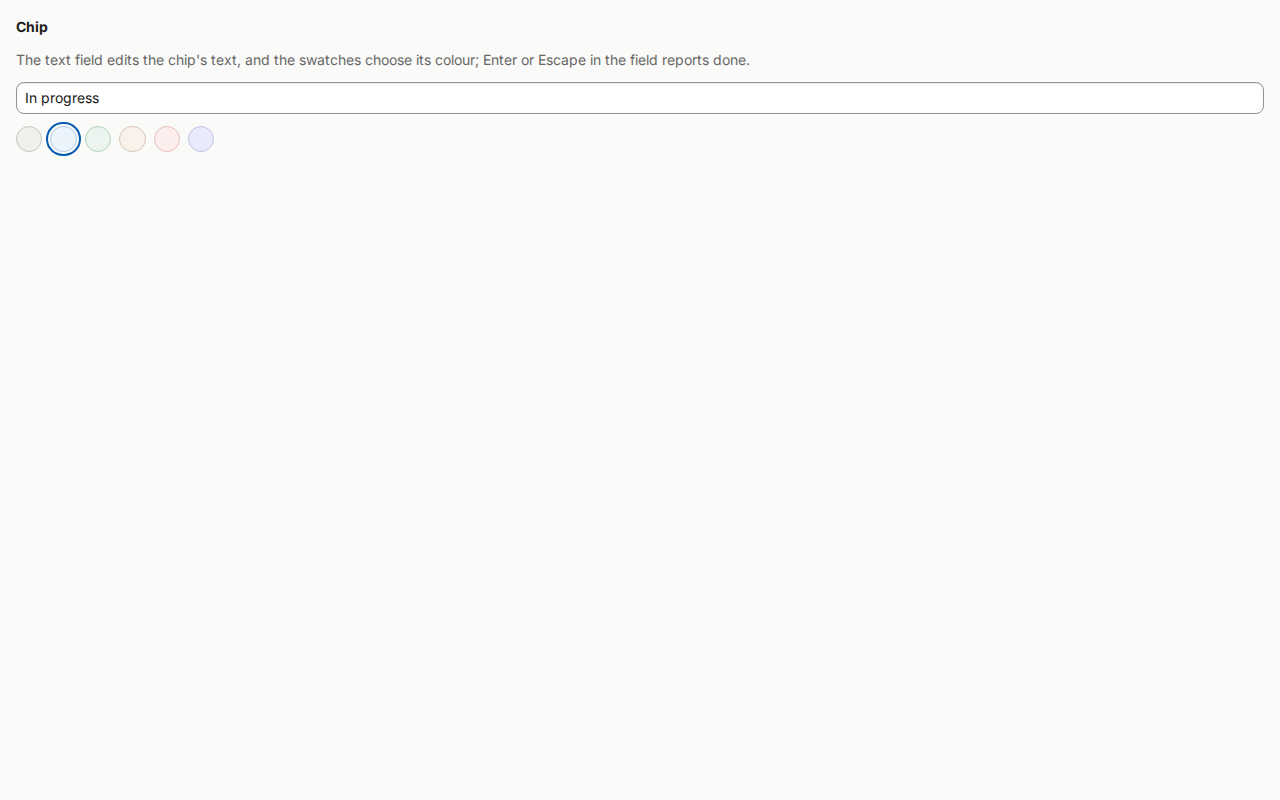
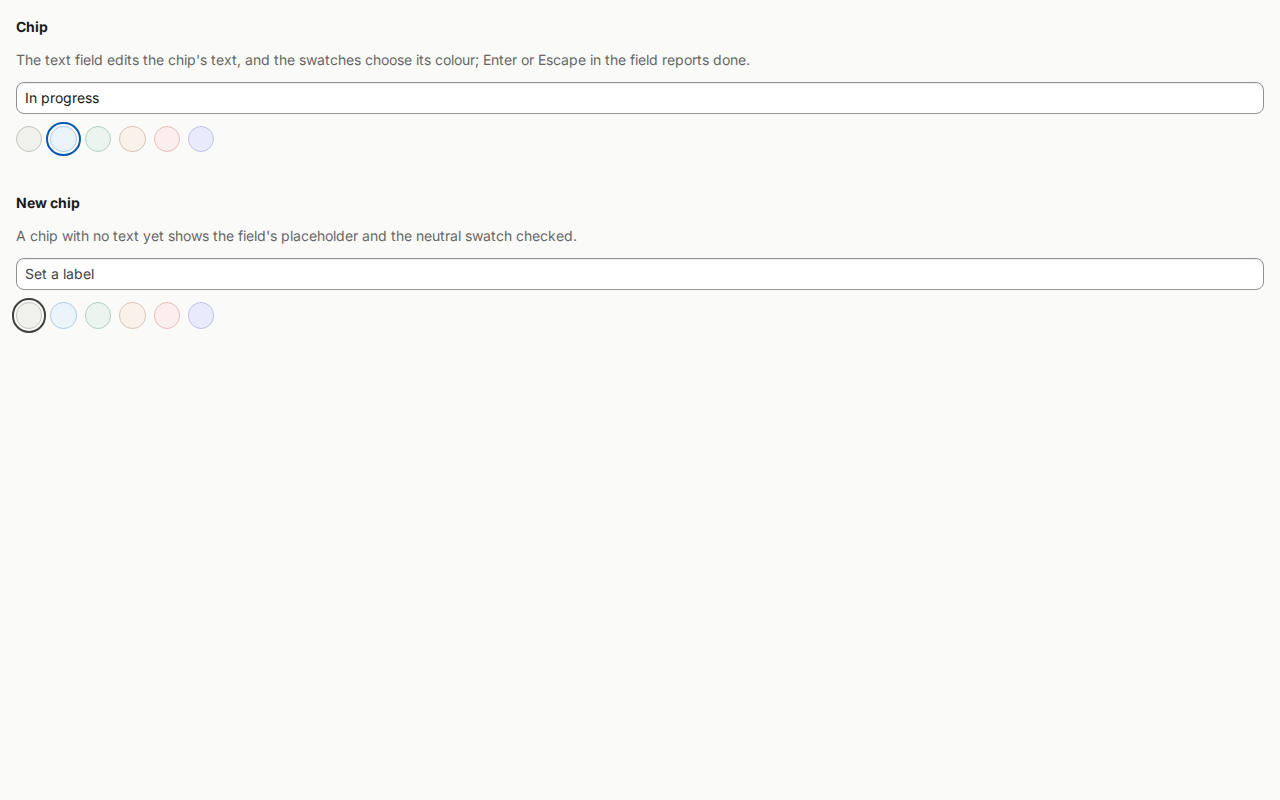
test(docs): bring the docs checks up to date with the current pages
Count the eleventh Button and Combobox examples, the 55-page catalog and the eight Callout tones; give Swatch, Block Actions, Chip Editor and Code Language a second scenario; record the compact link card, the longer editor page and the anticipatory Icon Button baseline.

Changed region(s): [[0.0, 0.25, 0.4375, 0.4062], [0.0938, 0.375, 0.125, 0.4062]]

diff --git a/apps/docs/tests/release-docs.spec.ts b/apps/docs/tests/release-docs.spec.ts
@@ -465,8 +465,8 @@ test("the component catalog exposes the complete library and filters live previe
     "Core, layout, form, display, and overlay building blocks"
   );
   await expect(page.locator(".looma-catalog-hero")).not.toContainText("Forty-nine");
-  await expect(page.locator(".looma-component-card")).toHaveCount(54);
-  await expect(page.getByText("Showing 54 components", { exact: true })).toBeVisible();
+  await expect(page.locator(".looma-component-card")).toHaveCount(55);
+  await expect(page.getByText("Showing 55 components", { exact: true })).toBeVisible();
   await expect(page.getByRole("heading", { level: 2, name: "Image", exact: true })).toHaveCount(1);
   await expect(page.getByRole("heading", { level: 2, name: "Chip" })).toHaveCount(0);
   await expect(page.getByRole("heading", { level: 2, name: "Floating Action Button" })).toHaveCount(0);
@@ -993,8 +993,8 @@ test("Examples and API keep configuration demos separate from exhaustive referen
 }) => {
   await page.goto("components/ui-button", { waitUntil: "domcontentloaded" });
 
-  // Includes the full-width card action alongside the existing Button examples.
-  await expect(page.locator(".looma-preview-scenario")).toHaveCount(10);
+  // Includes the full-width card action and the field-height button alongside the other Button examples.
+  await expect(page.locator(".looma-preview-scenario")).toHaveCount(11);
   await expect(page.locator(".looma-api")).toHaveCount(0);
   await page.getByRole("tab", { name: "API" }).click();
   await expect(page.locator(".looma-preview-scenario")).toHaveCount(0);
@@ -1358,7 +1358,7 @@ test("every combobox scenario receives its authored native options", async ({ pa
   await expect(page.locator(".looma-live-example-loading")).toHaveCount(0);
 
   const comboboxes = page.locator(":is([data-component~='ui-combobox'], .ui-combobox)");
-  await expect(comboboxes).toHaveCount(10);
+  await expect(comboboxes).toHaveCount(11);
   await expect(comboboxes.nth(0).locator(".authored-options option")).toHaveCount(2);
   await expect(comboboxes.nth(1).locator(".authored-options option")).toHaveCount(2);
   await comboboxes.nth(0).evaluate((element) => {
@@ -2084,7 +2084,7 @@ test("every badge tone remains legible and visually distinct in light and dark t
 test("every callout tone renders its icon without an empty oversized indent", async ({ page }) => {
   await page.goto("components/ui-callout", { waitUntil: "domcontentloaded" });
   const callouts = page.locator("[data-preview-scenario] :is([data-component~='ui-callout'], .ui-callout)");
-  await expect(callouts).toHaveCount(5);
+  await expect(callouts).toHaveCount(8);
   const treatments = await callouts.evaluateAll((roots) => roots.map((root) => {
     const surface = root;
     const content = root.querySelector(".content")!;

diff --git a/apps/docs/tests/reader-journeys.spec.ts b/apps/docs/tests/reader-journeys.spec.ts
@@ -50,7 +50,7 @@ test("theme and framework selection survive a reload and another page", async ({
   await page.reload();
   await ready(page);
   await expect(page.locator("html")).toHaveAttribute("data-theme", "dark");
-  await expect(page.locator('.looma-mode-code[data-framework-mode="vue"]')).toHaveCount(10);
+  await expect(page.locator('.looma-mode-code[data-framework-mode="vue"]')).toHaveCount(11);
   await page.goto("components/ui-checkbox/");
   await ready(page);
   await expect(page.locator("html")).toHaveAttribute("data-theme", "dark");

diff --git a/packages/looma/src/components/ui-editor-code-language/examples/02-auto.html b/packages/looma/src/components/ui-editor-code-language/examples/02-auto.html
@@ -1,0 +1,11 @@
+<!--
+title: Auto
+description: With value="auto" the picker shows Auto, for a code block whose language the editor detects.
+bind: languages=codeLanguages
+-->
+<ui-editor-code-language
+  id="code-language-auto"
+  value="auto"
+  languages='[{"value":"auto","label":"Auto"},{"value":"css","label":"CSS"},{"value":"html","label":"HTML"},{"value":"javascript","label":"JAVASCRIPT"},{"value":"typescript","label":"TYPESCRIPT"}]'
+>
+</ui-editor-code-language>

diff --git a/packages/looma/src/components/ui-editor-block-actions/examples/02-above.html b/packages/looma/src/components/ui-editor-block-actions/examples/02-above.html
@@ -1,0 +1,6 @@
+<!--
+title: Above its button
+description: placement="top-start" opens the menu above the button, for a toolbar that sits at the bottom of the screen.
+-->
+<ui-icon-button id="block-actions-above" label="Block actions" variant="ghost"><ui-icon name="ellipsis"></ui-icon></ui-icon-button>
+<ui-editor-block-actions for="block-actions-above" placement="top-start"> </ui-editor-block-actions>

diff --git a/packages/looma/src/components/ui-swatch/examples/02-none-chosen.html b/packages/looma/src/components/ui-swatch/examples/02-none-chosen.html
@@ -1,0 +1,10 @@
+<!--
+title: None chosen
+description: A radio group without a value leaves every swatch unchecked until one is chosen; Tab reaches the first swatch.
+-->
+<ui-radio-group label="Highlight">
+  <ui-swatch tone="yellow"></ui-swatch>
+  <ui-swatch tone="green"></ui-swatch>
+  <ui-swatch tone="blue"></ui-swatch>
+  <ui-swatch tone="red"></ui-swatch>
+</ui-radio-group>

diff --git a/packages/looma/src/components/ui-editor-chip-editor/examples/02-new-chip.html b/packages/looma/src/components/ui-editor-chip-editor/examples/02-new-chip.html
@@ -1,0 +1,5 @@
+<!--
+title: New chip
+description: A chip with no text yet shows the field's placeholder and the neutral swatch checked.
+-->
+<ui-editor-chip-editor> </ui-editor-chip-editor>
